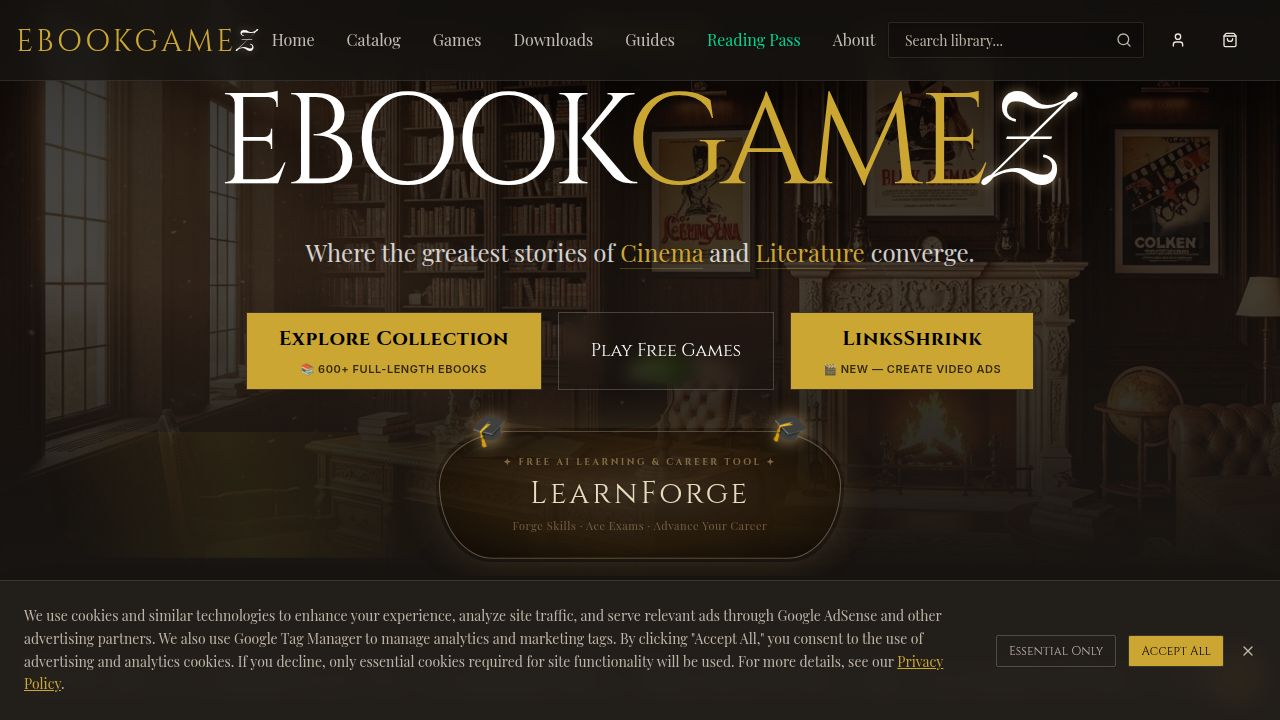
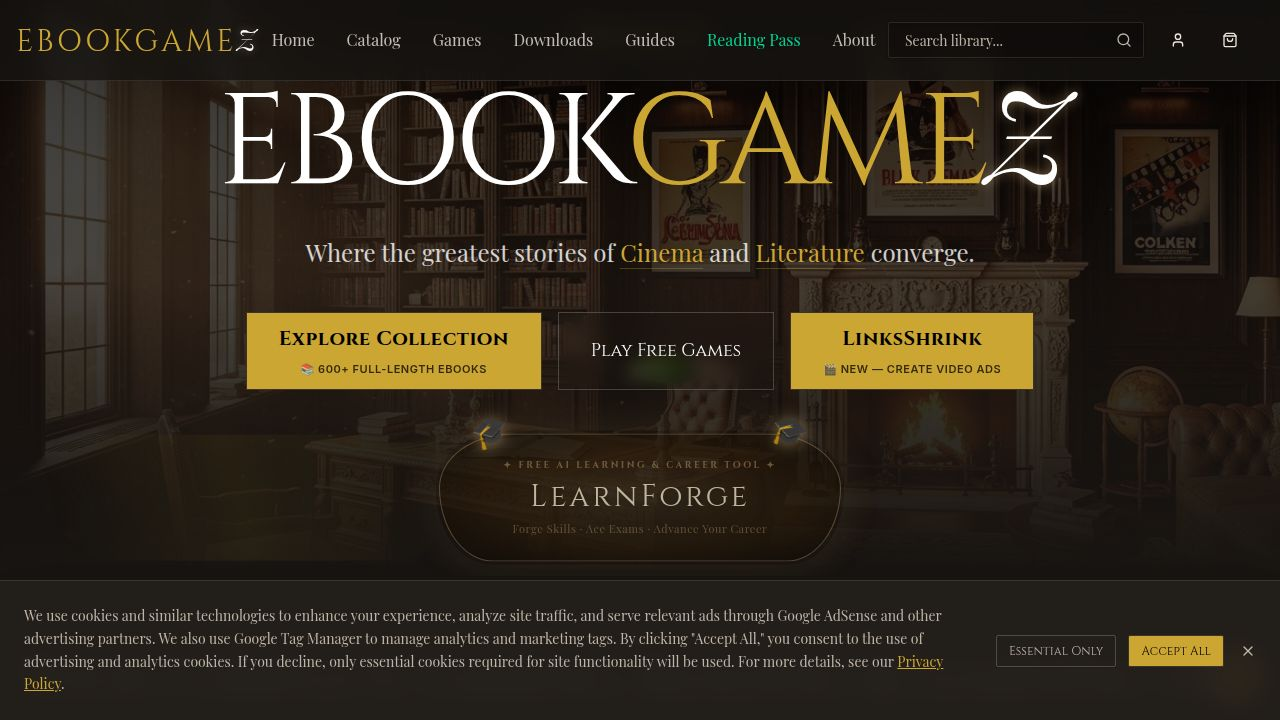
Improve startup performance by adding concurrency to cover synchronization
Update package.json scripts to remove unnecessary .env file flags and implement concurrent processing for book and draft cover synchronization in server/index.ts.

Replit-Commit-Author: Agent
Replit-Commit-Session-Id: 2b7bb55d-c106-4cae-b1f7-d1db5d2fe11b
Replit-Commit-Checkpoint-Type: full_checkpoint
Replit-Commit-Event-Id: 127a7ee3-11a1-462d-b2b6-a8d04e25ba2d
Replit-Commit-Screenshot-Url: https://storage.googleapis.com/screenshot-production-us-central1/a3aa5aa5-5b39-456a-a510-7a80e97ba33a/2b7bb55d-c106-4cae-b1f7-d1db5d2fe11b/wKtO3rf
Replit-Helium-Checkpoint-Created: true

diff --git a/server/index.ts b/server/index.ts
@@ -559,13 +559,22 @@ async function fixLocalCoverPaths() {
        WHERE cover_url LIKE '/uploads/covers/%' OR cover_url LIKE '/objstore/covers/%'`
     );
     let booksFixed = 0;
-    for (const book of booksResult.rows) {
-      const persisted = await ensureCoverPersisted(book.cover_url);
-      if (persisted && persisted !== book.cover_url) {
-        await client.query("UPDATE books SET cover_url = $1 WHERE id = $2", [persisted, book.id]);
-        booksFixed++;
-        console.log(`[Startup] Book #${book.id} cover -> ${persisted}`);
-      }
+    {
+      const CONCURRENCY = 20;
+      const queue = [...booksResult.rows];
+      const worker = async () => {
+        while (queue.length > 0) {
+          const book = queue.shift();
+          if (!book) break;
+          const persisted = await ensureCoverPersisted(book.cover_url);
+          if (persisted && persisted !== book.cover_url) {
+            await client.query("UPDATE books SET cover_url = $1 WHERE id = $2", [persisted, book.id]);
+            booksFixed++;
+            console.log(`[Startup] Book #${book.id} cover -> ${persisted}`);
+          }
+        }
+      };
+      await Promise.all(Array.from({ length: CONCURRENCY }, worker));
     }
     if (booksFixed > 0) {
       console.log(`[Startup] Migrated ${booksFixed} book cover URL(s) to object storage`);
@@ -582,33 +591,42 @@ async function fixLocalCoverPaths() {
     );
 
     let draftsFixed = 0;
-    for (const draft of draftsResult.rows) {
-      let coverUrl = draft.cover_url as string | null;
-      let backgroundUrl = draft.background_url as string | null;
+    {
+      const CONCURRENCY = 20;
+      const queue = [...draftsResult.rows];
+      const worker = async () => {
+        while (queue.length > 0) {
+          const draft = queue.shift();
+          if (!draft) break;
+          let coverUrl = draft.cover_url as string | null;
+          let backgroundUrl = draft.background_url as string | null;
 
-      if (coverUrl) {
-        coverUrl = await ensureCoverPersisted(coverUrl);
-      }
-      if (backgroundUrl) {
-        backgroundUrl = await ensureCoverPersisted(backgroundUrl);
-      }
+          if (coverUrl) {
+            coverUrl = await ensureCoverPersisted(coverUrl);
+          }
+          if (backgroundUrl) {
+            backgroundUrl = await ensureCoverPersisted(backgroundUrl);
+          }
 
-      if (draft.status === "published") {
-        if (!coverUrl && backgroundUrl) {
-          coverUrl = backgroundUrl;
+          if (draft.status === "published") {
+            if (!coverUrl && backgroundUrl) {
+              coverUrl = backgroundUrl;
+            }
+            if (!coverUrl && !backgroundUrl && draft.book_cover_url) {
+              coverUrl = await ensureCoverPersisted(draft.book_cover_url);
+            }
+          }
+
+          if (coverUrl !== draft.cover_url || backgroundUrl !== draft.background_url) {
+            await client.query(
+              "UPDATE draft_ebooks SET cover_url = $1, background_url = $2 WHERE id = $3",
+              [coverUrl, backgroundUrl, draft.id]
+            );
+            draftsFixed++;
+          }
         }
-        if (!coverUrl && !backgroundUrl && draft.book_cover_url) {
-          coverUrl = await ensureCoverPersisted(draft.book_cover_url);
-        }
-      }
-
-      if (coverUrl !== draft.cover_url || backgroundUrl !== draft.background_url) {
-        await client.query(
-          "UPDATE draft_ebooks SET cover_url = $1, background_url = $2 WHERE id = $3",
-          [coverUrl, backgroundUrl, draft.id]
-        );
-        draftsFixed++;
-      }
+      };
+      await Promise.all(Array.from({ length: CONCURRENCY }, worker));
     }
     if (draftsFixed > 0) {
       console.log(`[Startup] Fixed ${draftsFixed} draft_ebooks cover URL(s)`);